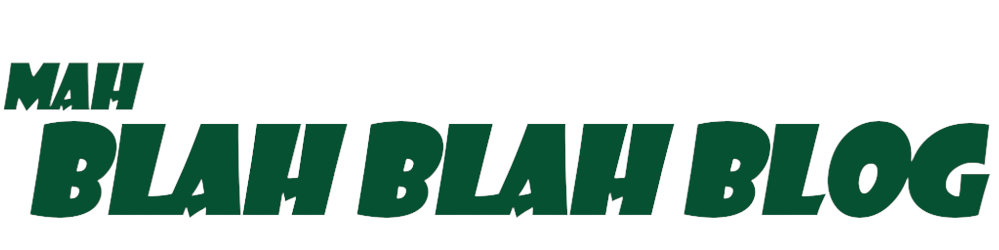
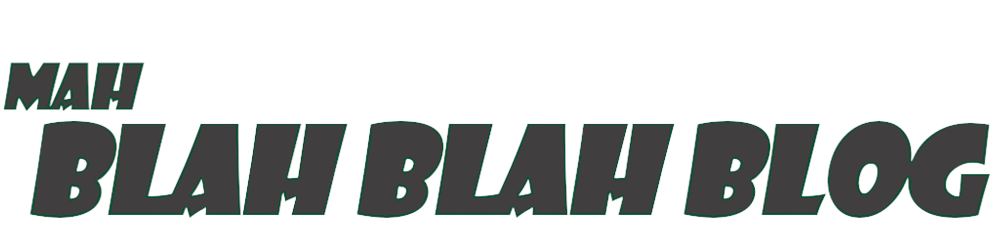
Final

Changed region(s): [[0.031, 0.476, 0.993, 0.868], [0.0, 0.252, 0.1552, 0.448]]

diff --git a/screens/Admin.js b/screens/Admin.js
@@ -46,38 +46,40 @@ const AdminScreen = ({navigation}) => {
         }).finally( () => {
             console.log('Finally sent...');
         })
+        setImage('');
+        setTitle('');
+        setText('');
+        alert('New post created!');
     }
 
         
     return (
         <SafeAreaView>
             <View style={styles.container}>
-                <Text>This is the admin screen</Text>
+                <Text>ADMIN SCREEN</Text>
                 <View style={styles.buttonGroup}>
                     <Button
                         onPress={() => navigation.navigate('Home')}
                         style={styles.homeButton}
                         title='Home'
-                        color='#075133'
+                        color='#403e3f'
                     />
                     <Button 
                         onPress={() => logout()} 
                         style={styles.logoutButton} 
                         title="Sign Out"                
-                        color='#075133'
+                        color='#403e3f'
                     />
                     <Button 
                         onPress={() => navigation.navigate('Register')} 
                         style={styles.registerButton} 
                         title="Register New User"                
-                        color='#075133'
+                        color='#403e3f'
                     />
                 </View>
-                
                     <Input
                         placeholder={new Date().toLocaleDateString()}
-                        label='Blog Timestamp'
-                        
+                        label='Blog Timestamp'                        
                         autoCapitalize = 'none'
                         value={timestamp}
                         onChangeText={text => {
@@ -91,8 +93,7 @@ const AdminScreen = ({navigation}) => {
                     />
                     <Input
                         placeholder='Enter an image URL'
-                        label='Image URL'
-                        
+                        label='Image URL'                        
                         autoCapitalize = 'none'
                         value={img}
                         onChangeText={text => setImage(text)}
@@ -117,7 +118,7 @@ const AdminScreen = ({navigation}) => {
                         title="Submit"
                         style={styles.button} 
                         onPress={() => createNewPost(img, title, text)} 
-                        color='#075133'
+                        color='#403e3f'
                     />
             </View>
         </SafeAreaView>    
@@ -132,7 +133,12 @@ const styles = StyleSheet.create({
         flex: 1,
         backgroundColor: '#fff',
         alignItems: 'center',
-        justifyContent: 'center',
+        justifyContent: 'space-evenly',
+    },
+    form: {
+        flex: 1,
+        margin: 0,
+        padding: 0
     },
     button: {
         marginTop: 15,
@@ -153,10 +159,6 @@ const styles = StyleSheet.create({
     },
     buttonGroup: {
         flexDirection: 'row',
-        display: 'flex',        
-    },
-    form: {
-        margin: 0,
-        padding: 0
-    }
+        margin: 15
+    },    
   });

diff --git a/components/Card.js b/components/Card.js
@@ -25,10 +25,7 @@ const Card = ({item}) => {
       }
 
     return (       
-        <View>
-            <View>
-                <Text style={styles.timeStamp}>{new Date(item.timestamp.seconds*1000).toLocaleDateString()}</Text>
-            </View>
+        <View>            
             <Pressable
                 style={styles.button}
                 onPress={ () => { navigation.navigate('Article', { article: item }) }}
@@ -40,7 +37,7 @@ const Card = ({item}) => {
                     />
                     <View style={styles.cardContent}>
                         <View style={styles.cardHeader}>                                    
-                            <Text style={styles.title}>{item.title}</Text>
+                            <Text style={styles.title}>{new Date(item.timestamp.seconds*1000).toLocaleDateString()} - {item.title}</Text>
                         </View>                    
                     </View>
                 </View>            
@@ -51,20 +48,23 @@ const Card = ({item}) => {
 
 export default Card;
 
-const styles = StyleSheet.create({    
+const styles = StyleSheet.create({   
+    container: {
+
+    },
     card: {
         borderWidth: 0,
-        shadowColor: '#000000',
+        shadowColor: '#000',
         shadowOffset: {
-            width: 1,
-            height: 1
+            width: 2,
+            height: 2
         },
-        shadowOpacity: 0.7,
-        shadowRadius: 4,
+        shadowOpacity: 0.8,
+        shadowRadius: 5,
+        elevation: 7,
         margin: 12,
         backgroundColor: '#efefef',
-        alignSelf: "stretch",
-        elevation: 7,
+        alignSelf: "stretch",        
         width: windowWidth * 0.8,
         aspectRatio: 1,
         maxHeight: 700,
@@ -74,7 +74,8 @@ const styles = StyleSheet.create({
         flex: '1',
         borderRadius: 3,
         marginHorizontal: 15,
-        marginTop: 15
+        marginTop: 15,
+        borderWidth: 0,
     },
     cardContent: {
         paddingVertical: 15,
@@ -83,13 +84,8 @@ const styles = StyleSheet.create({
     cardHeader: {
         paddingBottom: 5
     },
-    timeStamp: {
-        fontSize: 20,
-        textAlign: 'center',
-        marginTop: 20
-    },
     title: {
-        fontSize: 25,
+        fontSize: 20,
         textAlign: 'center',
         fontFamily: 'PermanentMarker-Regular'
     },

diff --git a/screens/Register.js b/screens/Register.js
@@ -65,7 +65,7 @@ const RegisterScreen = ({navigation}) => {
                             style={styles.mail}
                             name="mail" 
                             size={24} 
-                            color="#075133" 
+                            color="#403e3f" 
                         />
                     }
                     autoCapitalize = 'none'
@@ -80,7 +80,7 @@ const RegisterScreen = ({navigation}) => {
                             style={styles.mail}
                             name="lock-closed" 
                             size={24} 
-                            color="#075133" 
+                            color="#403e3f" 
                         />
                     }
                     autoCapitalize = 'none'
@@ -96,7 +96,7 @@ const RegisterScreen = ({navigation}) => {
                             style={styles.mail}
                             name="lock-closed" 
                             size={24} 
-                            color="#075133" 
+                            color="#403e3f" 
                         />
                     }
                     autoCapitalize = 'none'
@@ -108,7 +108,7 @@ const RegisterScreen = ({navigation}) => {
                     title="Register" 
                     style={styles.button} 
                     onPress={() => registration(email, password1, password2, navigation)}
-                    color='#075133' 
+                    color='#403e3f' 
                 />
 
                 <Pressable
@@ -124,7 +124,7 @@ const RegisterScreen = ({navigation}) => {
                             style={styles.admin}
                             name="shield" 
                             size={64} 
-                            color="#075133" 
+                            color="#403e3f" 
                         />
                     )}
                 </Pressable>                    

diff --git a/screens/ArticleScreen.js b/screens/ArticleScreen.js
@@ -3,6 +3,8 @@ import { Dimensions, Image, StyleSheet, Text, View } from "react-native";
 import { Button } from '@rneui/themed';
 import { useNavigation } from "@react-navigation/native";
 import { SafeAreaView } from "react-native-safe-area-context";
+import { onAuthStateChanged } from 'firebase/auth';
+import { auth } from '../lib/firebase';
 
 const windowWidth = Dimensions.get("window").width;
 const windowHeight = Dimensions.get("window").height;
@@ -10,7 +12,26 @@ const windowHeight = Dimensions.get("window").height;
 const ArticleScreen = ({route}) => {
 
     const navigation = useNavigation();
-    const { article } = route.params;      
+    const { article } = route.params;     
+    
+    onAuthStateChanged(auth, (user) => {
+        if (user) {
+          //Logged in - stay here   
+          return (
+            <View>
+                <Button
+                    onPress={() => navigation.navigate('Home')}
+                    style={styles.button}
+                    title='Back'
+                    color='#403e3f'
+                />
+            </View>    
+          )       
+        } else {
+          //not logged in
+          
+        }
+      })
 
     return (
         <SafeAreaView>
@@ -27,7 +48,7 @@ const ArticleScreen = ({route}) => {
                     onPress={() => navigation.navigate('Home')}
                     style={styles.button}
                     title='Back'
-                    color='#075133'
+                    color='#403e3f'
                 />
             </View>
         </SafeAreaView>

diff --git a/screens/Home.js b/screens/Home.js
@@ -26,14 +26,17 @@ const HomeScreen = ({navigation}) => {
     return (
         <SafeAreaView>
             <View>
-            <ImageBackground source={require('../assets/blogbackground.jpg')} style={styles.image}>
-            <View style={styles.container}>
-                
-                <Header style={styles.header} />
-                <ArticleList style={styles.list} data={blogData} />
-                <Footer />
-            </View>
-            </ImageBackground>
+                <ImageBackground 
+                    source={require('../assets/blogbackground18.jpg')} 
+                    style={styles.image}
+                    blurRadius={2}
+                >
+                    <View style={styles.container}>                    
+                        <Header style={styles.header} />
+                        <ArticleList style={styles.list} data={blogData} />
+                        <Footer />
+                    </View>
+                </ImageBackground>
             </View>
         </SafeAreaView>
     )
@@ -49,11 +52,13 @@ const styles = StyleSheet.create({
         alignItems: 'center',
         justifyContent: 'center',
         backgroundColor: 'rgba(0, 0, 0, 0)',
+        
     },
     image: {
         flex: 1,
         resizeMode: 'cover',
         justifyContent: 'center',
+        
     },
     list: {
 

diff --git a/components/Footer.js b/components/Footer.js
@@ -25,7 +25,7 @@ const Footer = () => {
                     style={styles.github}
                     name="logo-github" 
                     size={32} 
-                    color="#075133" 
+                    color="#403e3f" 
                 />
             )}
             </Pressable>
@@ -43,7 +43,7 @@ const Footer = () => {
                     style={styles.linkedin}
                     name="logo-linkedin" 
                     size={32} 
-                    color="#075133" 
+                    color="#403e3f" 
                 />
             )}
             </Pressable>
@@ -61,7 +61,7 @@ const Footer = () => {
                     style={styles.mail}
                     name="mail" 
                     size={32} 
-                    color="#075133" 
+                    color="#403e3f" 
                 />
             )}
             </Pressable>
@@ -79,7 +79,7 @@ const Footer = () => {
                     style={styles.admin}
                     name="shield" 
                     size={32} 
-                    color="#075133" 
+                    color="#403e3f" 
                 />
             )}
             </Pressable>

diff --git a/components/Header.js b/components/Header.js
@@ -20,7 +20,17 @@ export default Header;
 const styles = StyleSheet.create({
     container: {   
         flex: 1,
-        backgroundColor: 'rgba(0, 0, 0, 0)',
+        backgroundColor: '#efefef',
+        width: '100%',
+        alignItems: 'center',
+        borderWidth: 0,
+        shadowColor: '#000000',
+        shadowOffset: {
+            width: 1,
+            height: 1
+        },
+        shadowOpacity: 0.7,
+        shadowRadius: 4,
     },
     image: {
         flex: 1,
@@ -28,7 +38,6 @@ const styles = StyleSheet.create({
         height: windowHeight * 0.25,
         width: windowWidth * 0.8,
         aspectRatio: 1,
-        maxWidth: 415,        
-        backgroundColor: 'rgba(0, 0, 0, 0)',
+        maxWidth: 415,
     },
 });    
